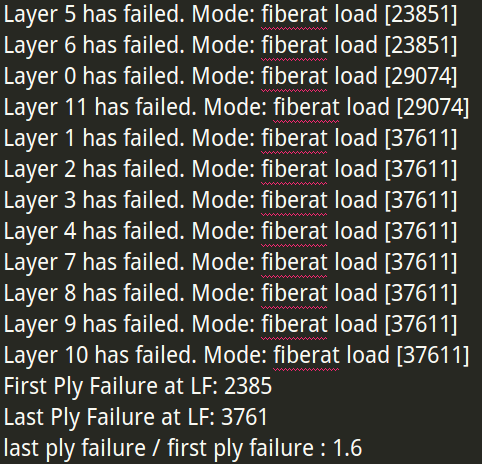
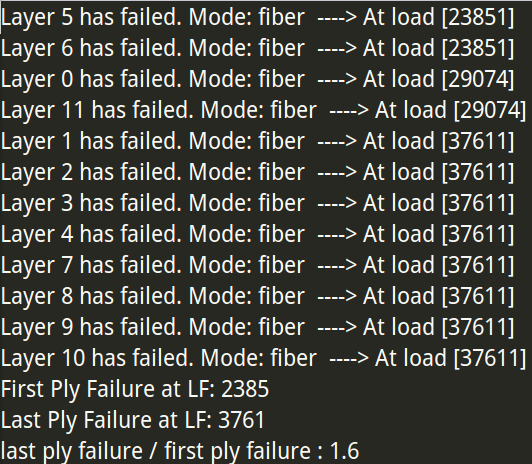
fix laminateTools 12/xy mixure / add　READMD6

diff --git a/code/laminate_Tools.py b/code/laminate_Tools.py
@@ -490,7 +490,7 @@ def laminate_step_failure(laminate , F = [10 ,0 ,0  ,0 ,0, 0] ,layer_num = 0 , p
 				failed_count[1] = failed_count[1] + 1
 				
 				print("Layer "+str(i)+" has failed. Mode: " + laminate.lamina_list[i].fail_status["Mode"]\
-					+ 'at load ' + str ([int(load) for load in LF*F if load>0]))
+					+ '  ----> At load ' + str ([int(load) for load in LF*F if load>0]))
 
 		# Increases LF if no new failure 
 		if failed_count[1] == failed_count[0]:	   

diff --git a/README.md b/README.md
@@ -19,7 +19,7 @@ Introduction
 - Show accurate calculate information of results, display figures of  stress&strain distribution; show the failure steps of chosen layer.
 
 ## Data flow of the Project
-<img  width="1170" height="827" src="fig/dataflow.png" data-canonical-src="fig/dataflow.png" />
+<img src="fig/dataflow.png" data-canonical-src="fig/dataflow.png" />
 
 ## Task achieved:
 - [x] Use CLT to calculate  stresses and strains distribution in lamina & laminate in local and global coordinate systems
